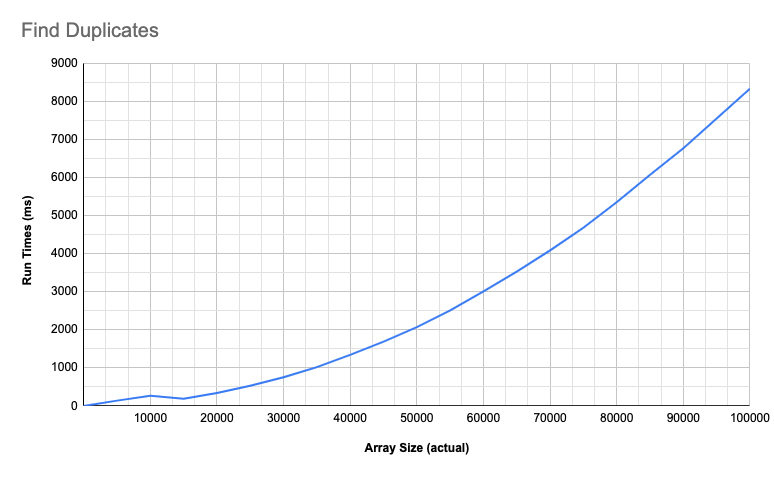
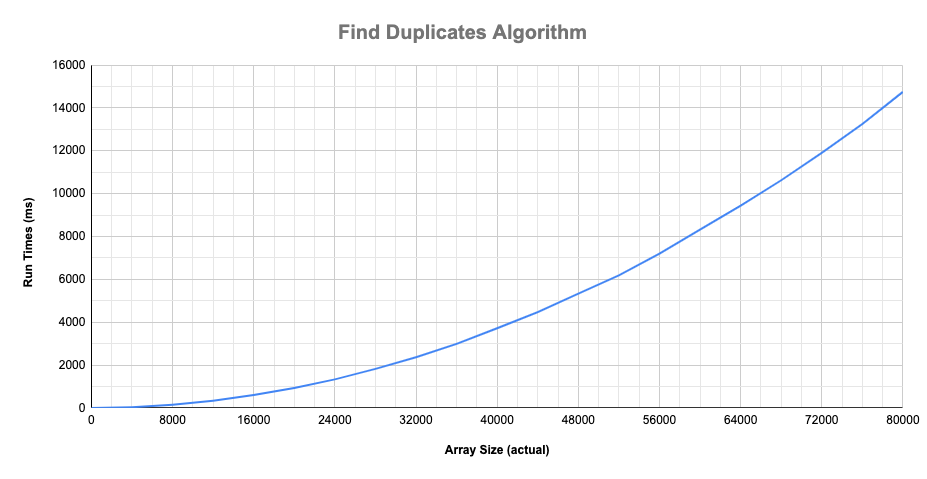
Retime algorithms with control inputs at the beginning, to remove initial spike

Changed region(s): [[0.0, 0.1174, 1.0, 0.9686], [0.3411, 0.0294, 0.6512, 0.0881], [0.031, 0.0294, 0.2171, 0.0881]]

diff --git a/timingAlgorithms/findDuplicates.js b/timingAlgorithms/findDuplicates.js
@@ -3,4 +3,4 @@ import AlgoRunner from '../codeTimer/lib/AlgoRunner.js'
 
 const algoRunner = new AlgoRunner()
 
-algoRunner.run({ method: findDuplicates, size: 5000, custom: true })
+algoRunner.run({ method: findDuplicates, size: 4000, custom: true })
